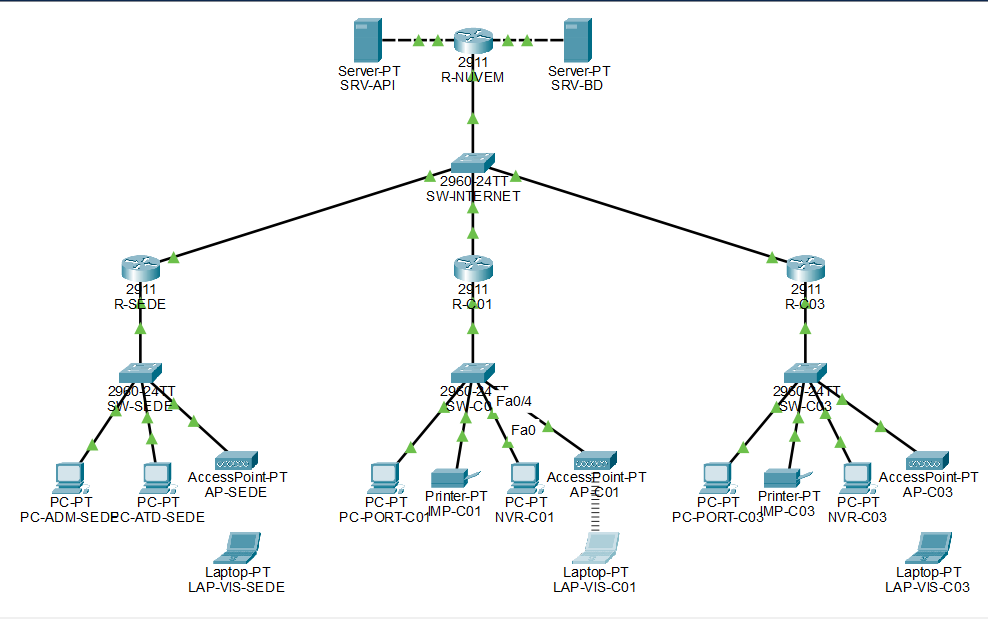
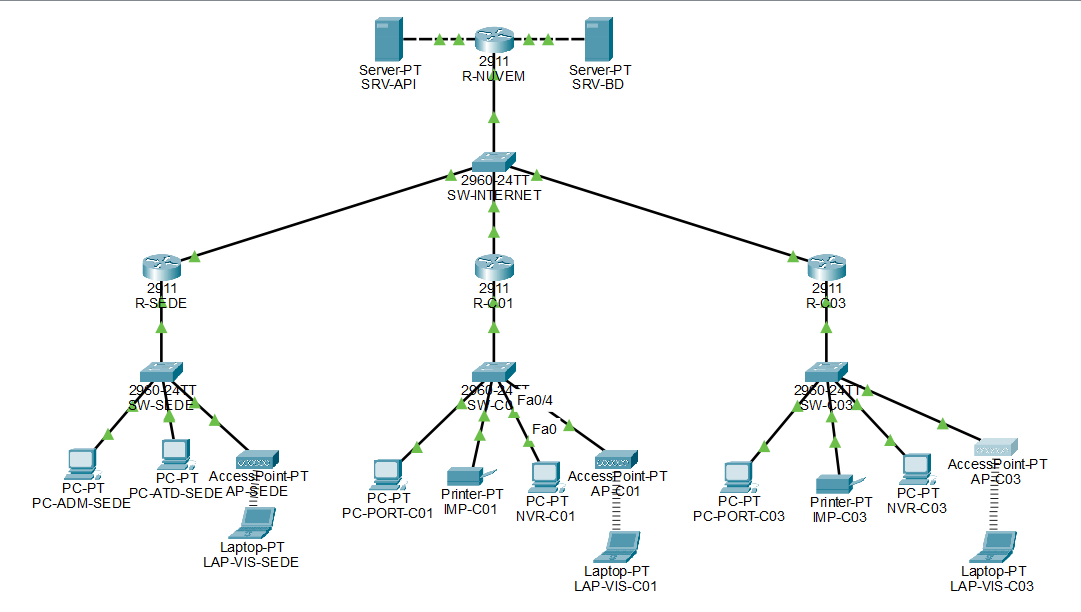
docs(figuras): atualiza a topologia com os tres laptops conectados (figura 13)

Changed region(s): [[0.0, 0.0, 1.0, 0.9624], [0.0, 0.3725, 0.3036, 0.9624]]

diff --git a/00-projeto/plano-de-pendencias.md b/00-projeto/plano-de-pendencias.md
@@ -24,7 +24,7 @@
 
 ### 1.3 Packet Tracer (prazo: qua 04/11 montar; qui 05/11 prints)
 
-**Andamento em 2026-11-04 (noite):** Packet Tracer 9.0.1; topologia montada e **T1 a T15 executados, todos como esperado**; capítulo 7, conclusão, introdução, resumo e abstract já atualizados com os resultados. **Feito depois:** HTTP/HTTPS ligados no `SRV-API` e prints do T2 (Figura 14) e do T6 (Figura 15) já no repositório. **Print da topologia (Figura 13) também já no repositório. Falta:** salvar o `.pkt` e os prints em `06-redes/packet-tracer/` e `documento-final/figuras/`; confirmar o segundo ping do T9 (CFTV → API não responde); decidir sobre o Wi-Fi dos laptops da sede e do condomínio 3 (nenhum teste depende deles).
+**Andamento em 2026-11-04 (noite):** Packet Tracer 9.0.1; topologia montada e **T1 a T15 executados, todos como esperado**; capítulo 7, conclusão, introdução, resumo e abstract já atualizados com os resultados. **Feito depois:** HTTP/HTTPS ligados no `SRV-API` e prints do T2 (Figura 14) e do T6 (Figura 15) já no repositório. **Print da topologia (Figura 13) também já no repositório. Falta:** salvar o `.pkt` e os prints em `06-redes/packet-tracer/` e `documento-final/figuras/`; confirmar o segundo ping do T9 (CFTV → API não responde); Wi-Fi dos três laptops configurado e topologia refeita com todos conectados (Figura 13 atualizada em 2026-11-04).
 
 Seguir `06-redes/packet-tracer/roteiro.md` (VPN fica só no diagrama, decisão do grupo).
 

diff --git a/documento-final/capitulos/07-redes.md b/documento-final/capitulos/07-redes.md
@@ -135,7 +135,7 @@ Nos testes em que se esperava falta de resposta, a mensagem *Destination host un
 
 **[Figura 15 – Teste T6: o Wi-Fi de visitantes do condomínio 1 não alcança a portaria. Fonte: elaborado pelos autores (2026), Packet Tracer 9.0.1. Arquivo: `figuras/figura-15-teste-t6.png`]**
 
-Um problema foi resolvido: executado de uma vez, o script perdeu nos roteadores os comandos de seleção de interface, e os roteadores passaram a ser configurados direto no CLI. Limitações: só o laptop de visitante do condomínio 1 foi conectado ao Wi-Fi e testado (na Figura 13, os da sede e do condomínio 3 aparecem sem conexão sem fio); VPN, HTTPS da API e desempenho não foram testados; a simulação não substitui equipamentos reais; e o resultado do T9 foi informado pelo grupo.
+Um problema foi resolvido: executado de uma vez, o script perdeu nos roteadores os comandos de seleção de interface, e os roteadores passaram a ser configurados direto no CLI. Limitações: os laptops de visitante dos três locais foram conectados ao Wi-Fi (Figura 13), mas os testes T5 a T8 foram feitos só no do condomínio 1; VPN, HTTPS da API e desempenho não foram testados; a simulação não substitui equipamentos reais; e o resultado do T9 foi informado pelo grupo.
 
 ## 7.8 Considerações do capítulo
 
